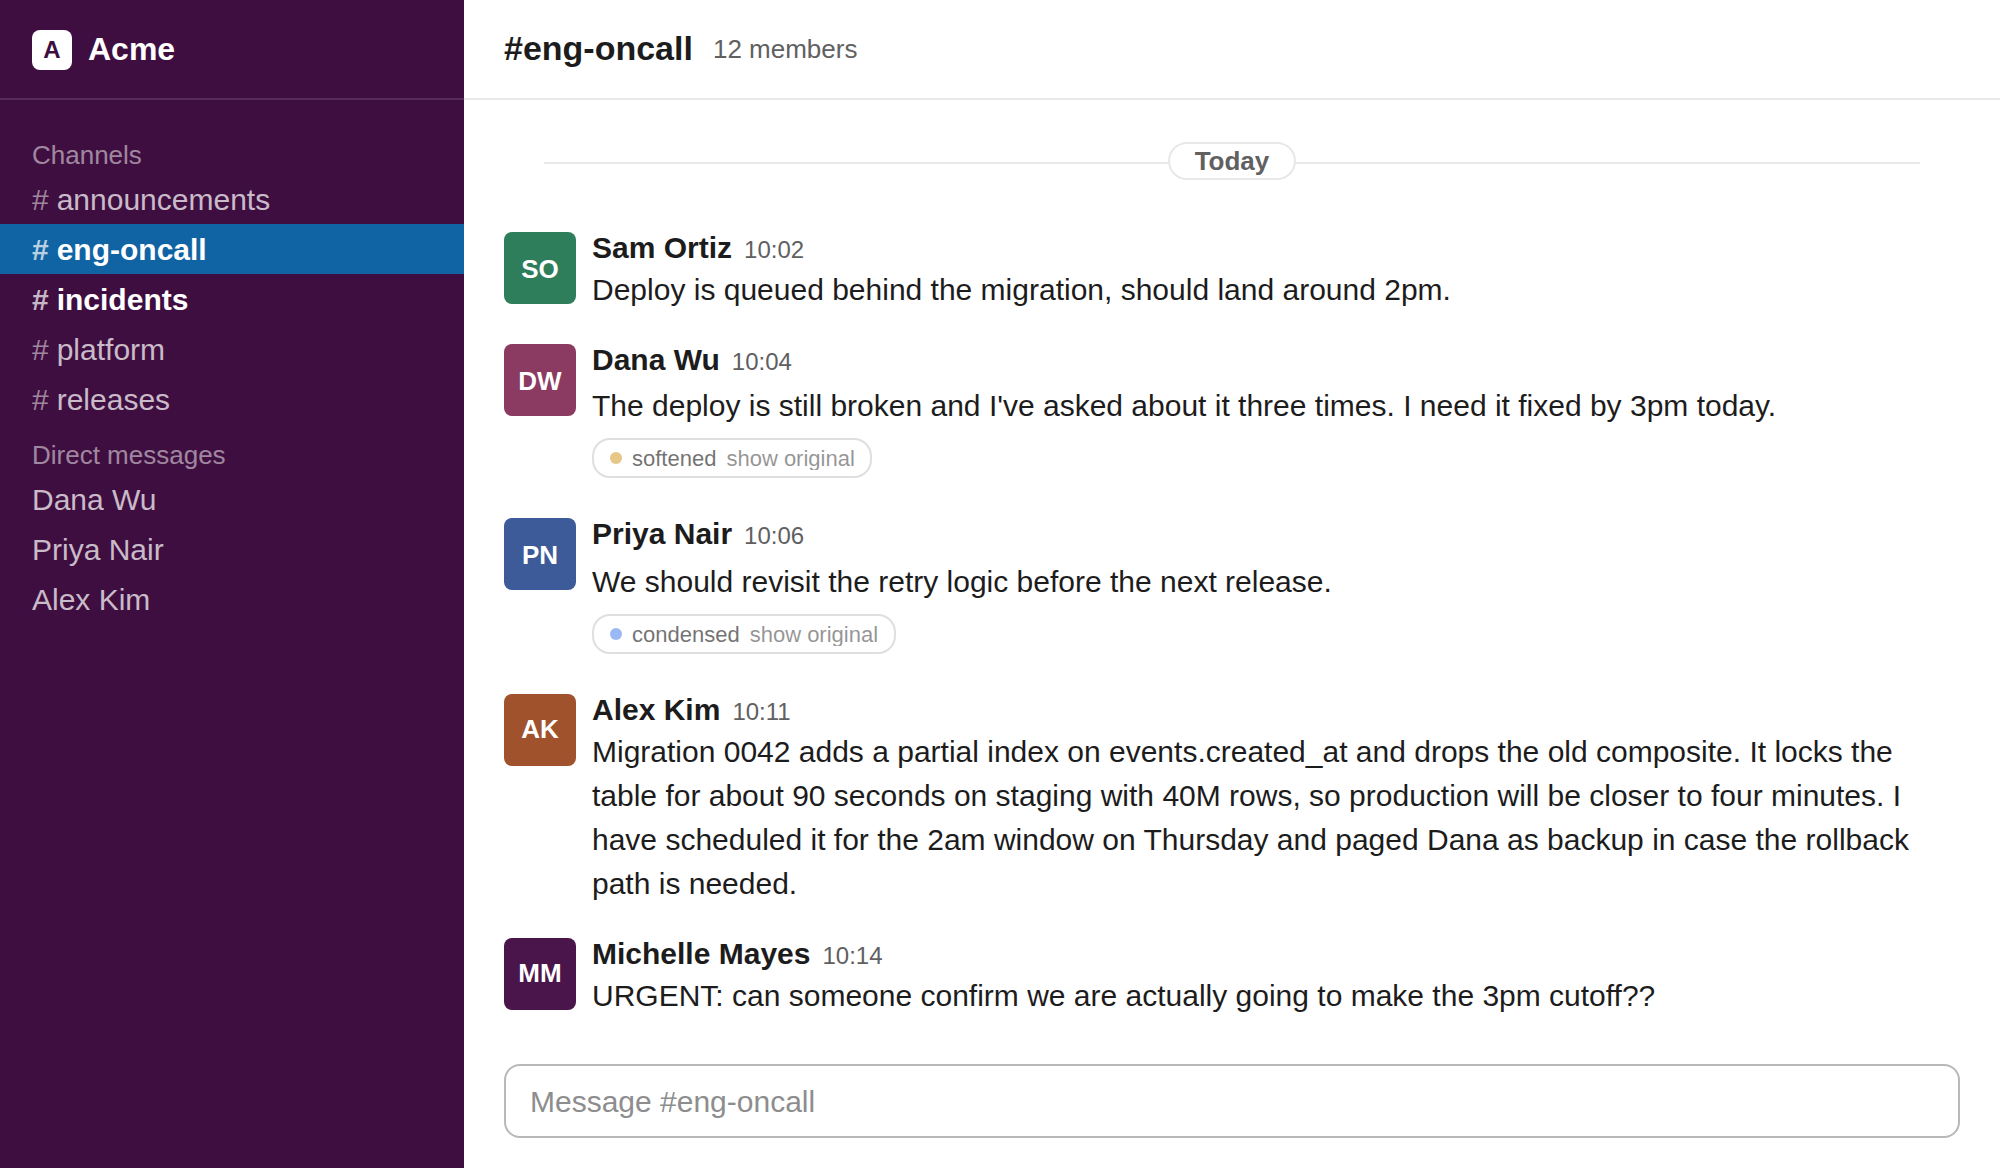
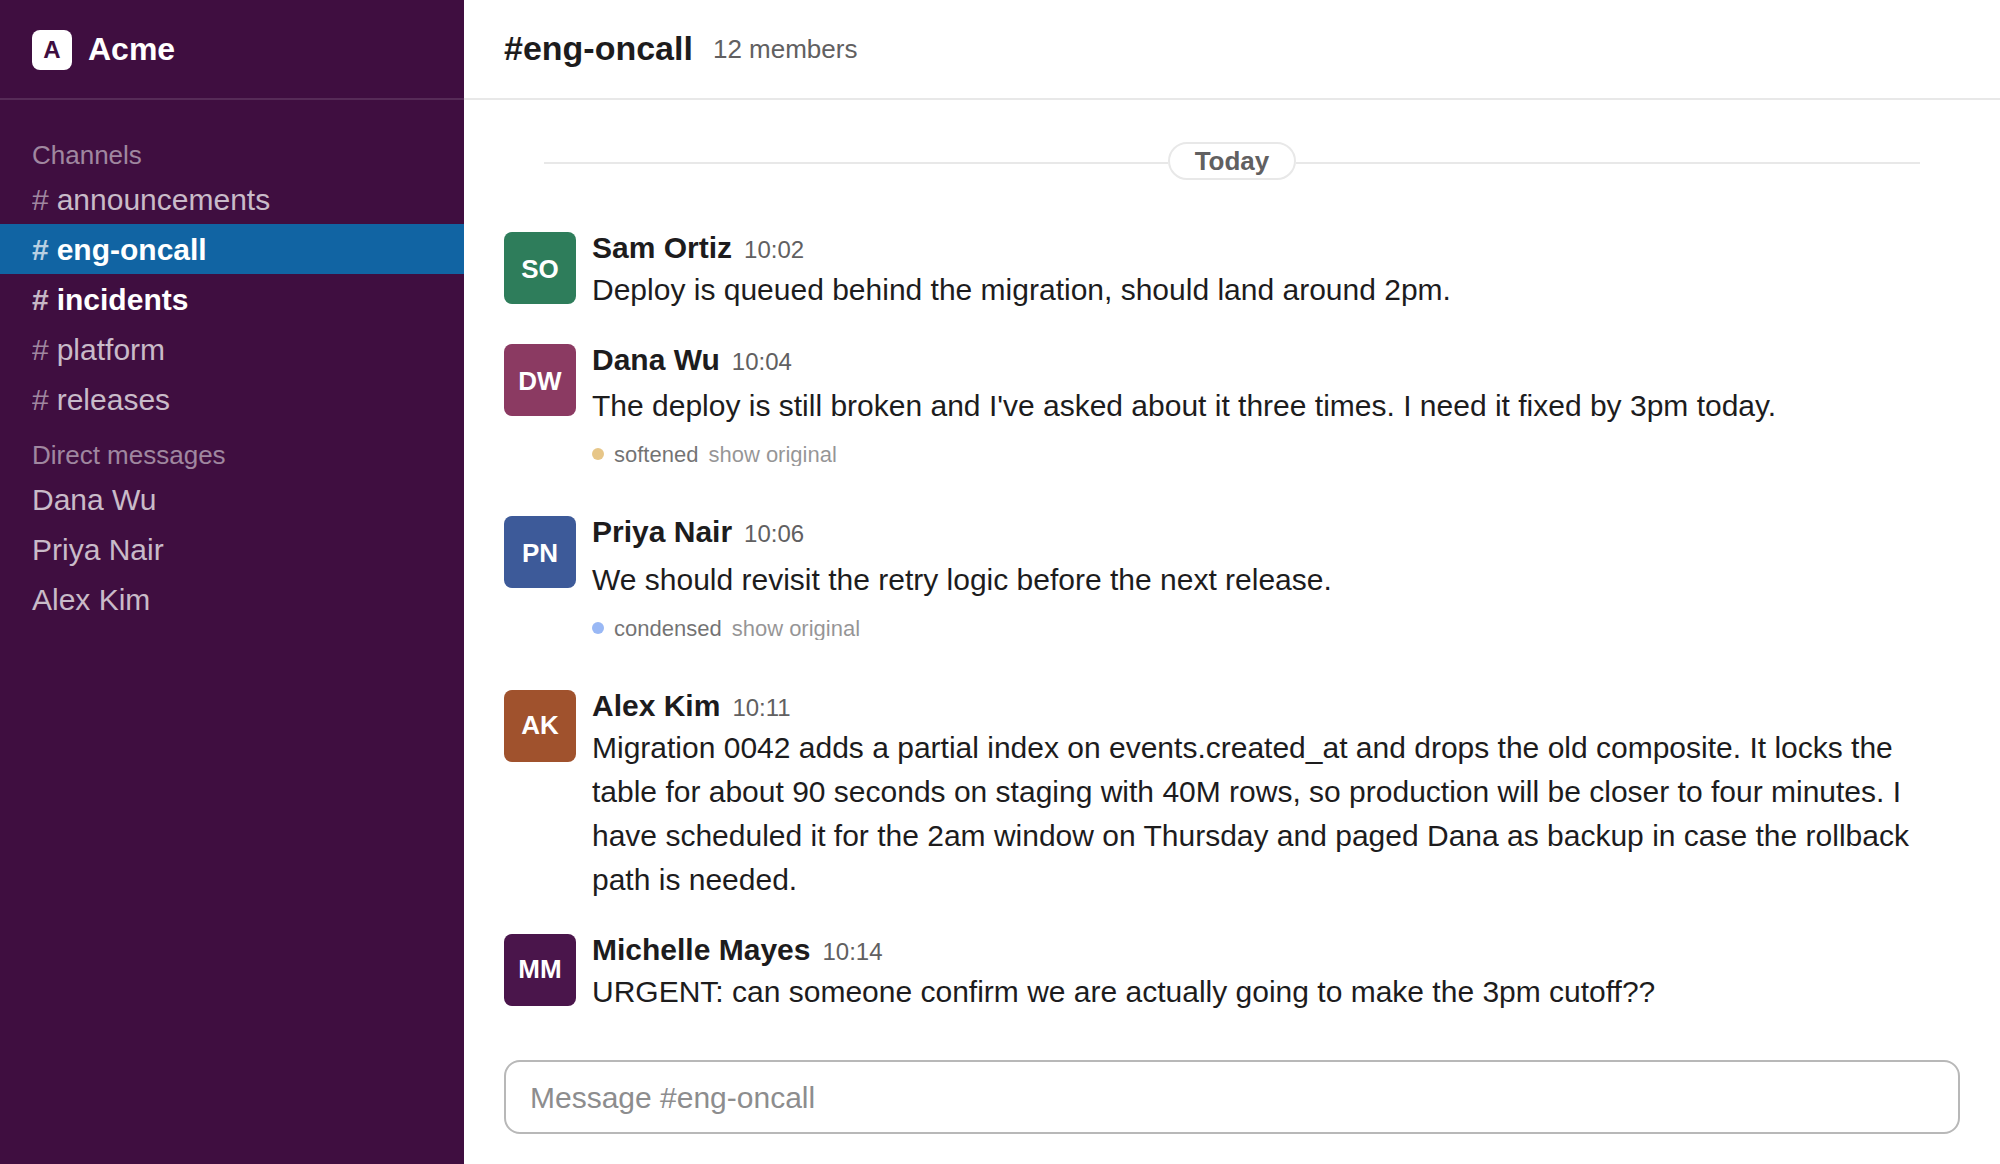
Stop drawing the badge as a chip
Slack stacks its own bordered boxes directly under a message: reaction pills
4px below, and a thread bar whose hover box is pulled up over whatever
precedes it. A message body's leading absorbs that overlap, which is why
Slack gets away with it — a bordered badge sitting there does not. It either
reads as one more reaction or gets crossed by the thread bar's outline, and
no amount of spacing fixes both at once without orphaning the reaction row.

So the badge drops its border and becomes what it always was: a dot and two
words about the message above it. The hover fill hangs 6px left the way
Slack's own hover boxes do, which keeps the label flush with the message
text, and nothing it can collide with has an outline to collide with any
more.

Claude-Session: https://claude.ai/code/session_01DvhfPFFGoawPRgWpEeSgzt

diff --git a/client/inject.js b/client/inject.js
@@ -111,23 +111,22 @@
       word-break: break-word;
     }
     .slacken-panel[data-open="1"] .slacken-rewrite { display: none; }
-    /* Slack sets its reaction bar 4px under whatever precedes it, and a
-       reaction is itself a bordered pill. Left at 3px above and 4px below,
-       the badge read as one more chip in that row — so it sits closer to the
-       message it describes than to the reactions, and is smaller and quieter
-       than a reaction chip at every state. */
+    /* Deliberately not a chip. Slack stacks its own bordered boxes directly
+       under a message — reaction pills 4px below, and a thread bar whose
+       hover box is pulled up over whatever precedes it — so a bordered badge
+       either reads as one more reaction or gets crossed by the thread bar's
+       outline. A dot and two words collide with neither, and the hover fill
+       hangs 6px left the way Slack's own hover boxes do, which keeps the
+       label itself flush with the message text above it. */
     .slacken-badge {
       display: inline-flex; align-items: center; gap: 5px;
       box-sizing: border-box; max-width: 100%;
-      margin: 5px 0 4px; padding: 1px 8px;
+      margin: 4px 0 6px -6px; padding: 1px 6px;
       font-size: 11px; line-height: 16px; font-weight: 500;
       color: inherit; opacity: .62;
-      background: transparent;
-      border: 1px solid rgba(127,127,127,.4); border-radius: 9px;
+      background: transparent; border: 0; border-radius: 7px;
       cursor: pointer; user-select: none;
     }
-    /* Hover fills rather than darkens the outline: a heavier border is what
-       made the badge snap into the reaction cluster below it. */
     .slacken-badge:hover { opacity: 1; background: rgba(127,127,127,.13); }
     .slacken-badge[hidden] { display: none; }
     .slacken-dot {
